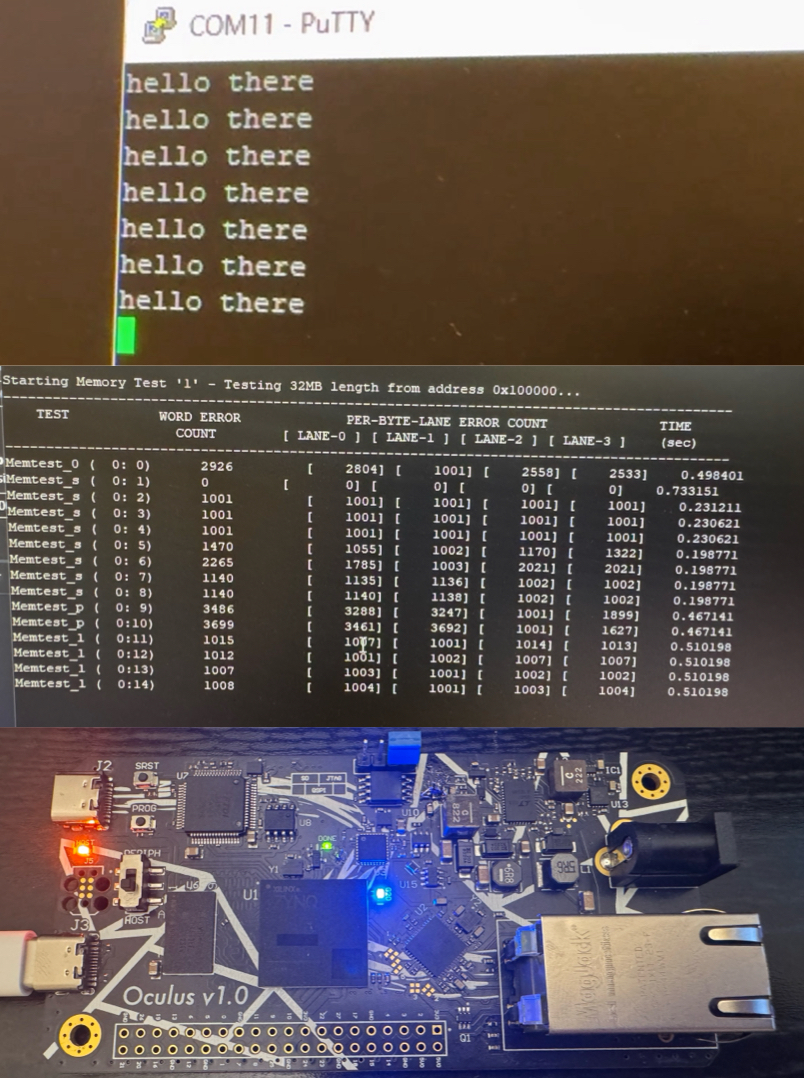
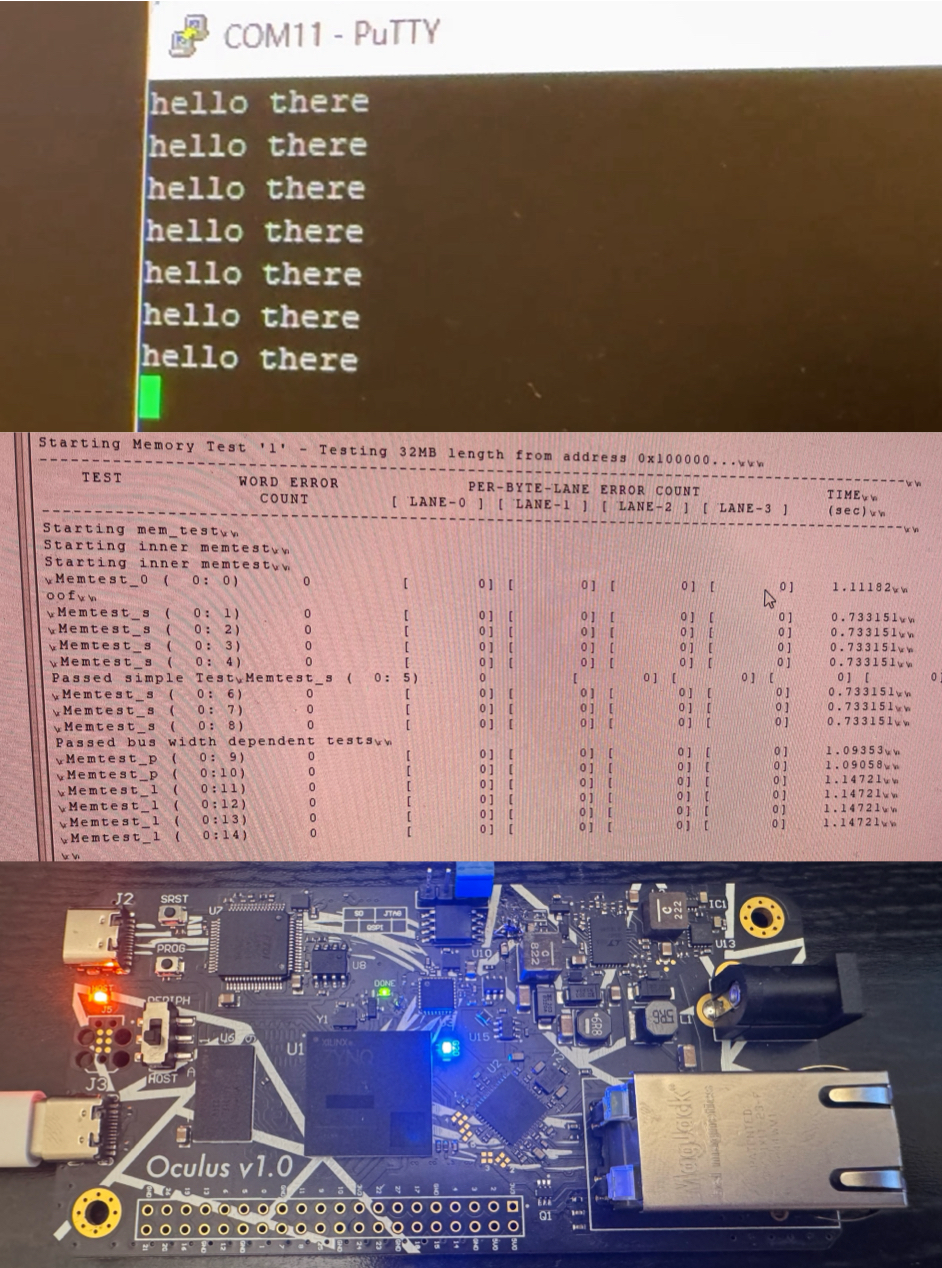
oculus updates

diff --git a/oculus.html b/oculus.html
@@ -135,6 +135,8 @@ h1, h2, h3, h4, h5, h6 {
       <br>
       <h4>What worked?</h4>
       <ul>
+        <li class="w3-text-grey">DDR3 at 1600MHz with 0 errors across all byte lanes</li>
+        <li class="w3-text-grey">Gigabit ethernet fully functional</li>
         <li class="w3-text-grey">All voltage levels stable (1V0, 1V5, 1V8, 2V5, 3V3)</li>
         <li class="w3-text-grey">Fully programmable over USB through FT2232H</li>
         <li class="w3-text-grey">UART interface and GPIO pins functional</li>
@@ -150,9 +152,7 @@ h1, h2, h3, h4, h5, h6 {
       <br>
       <h4>What still needs to be tested?</h4>
       <ul>
-        <li class="w3-text-grey">DDR3 has some errors (one byte lane is fully functional)</li>
-        <li class="w3-text-grey">Ethernet and USB 2.0 are undergoing testing</li>
-        <li class="w3-text-grey">Alternate boot modes (QSPI and microSD)</li>
+        <li class="w3-text-grey">USB 2.0 and alternate boot modes are undergoing testing</li>
       </ul>
     </div>
     
